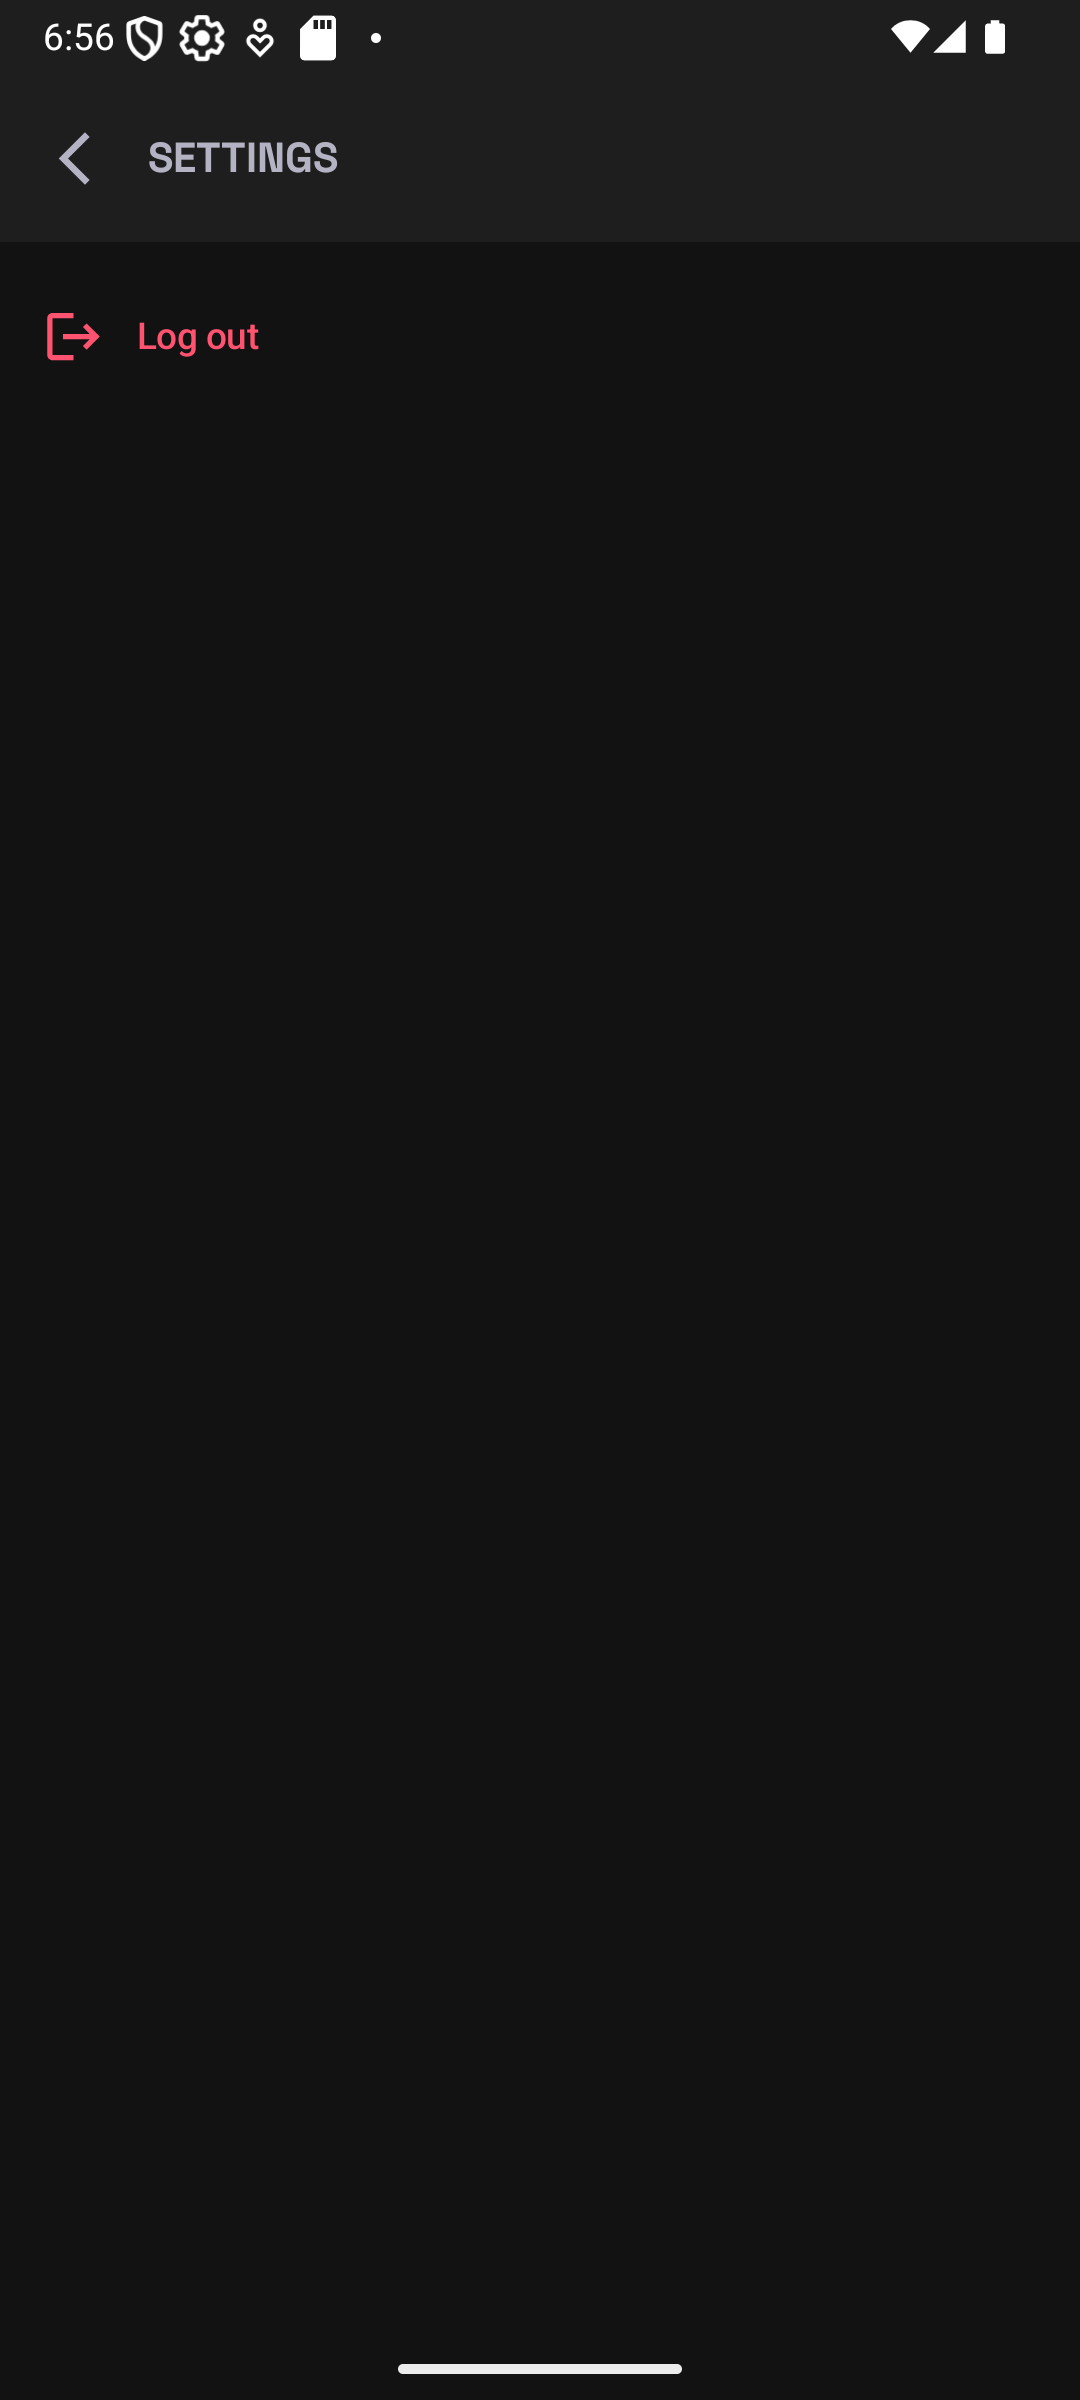
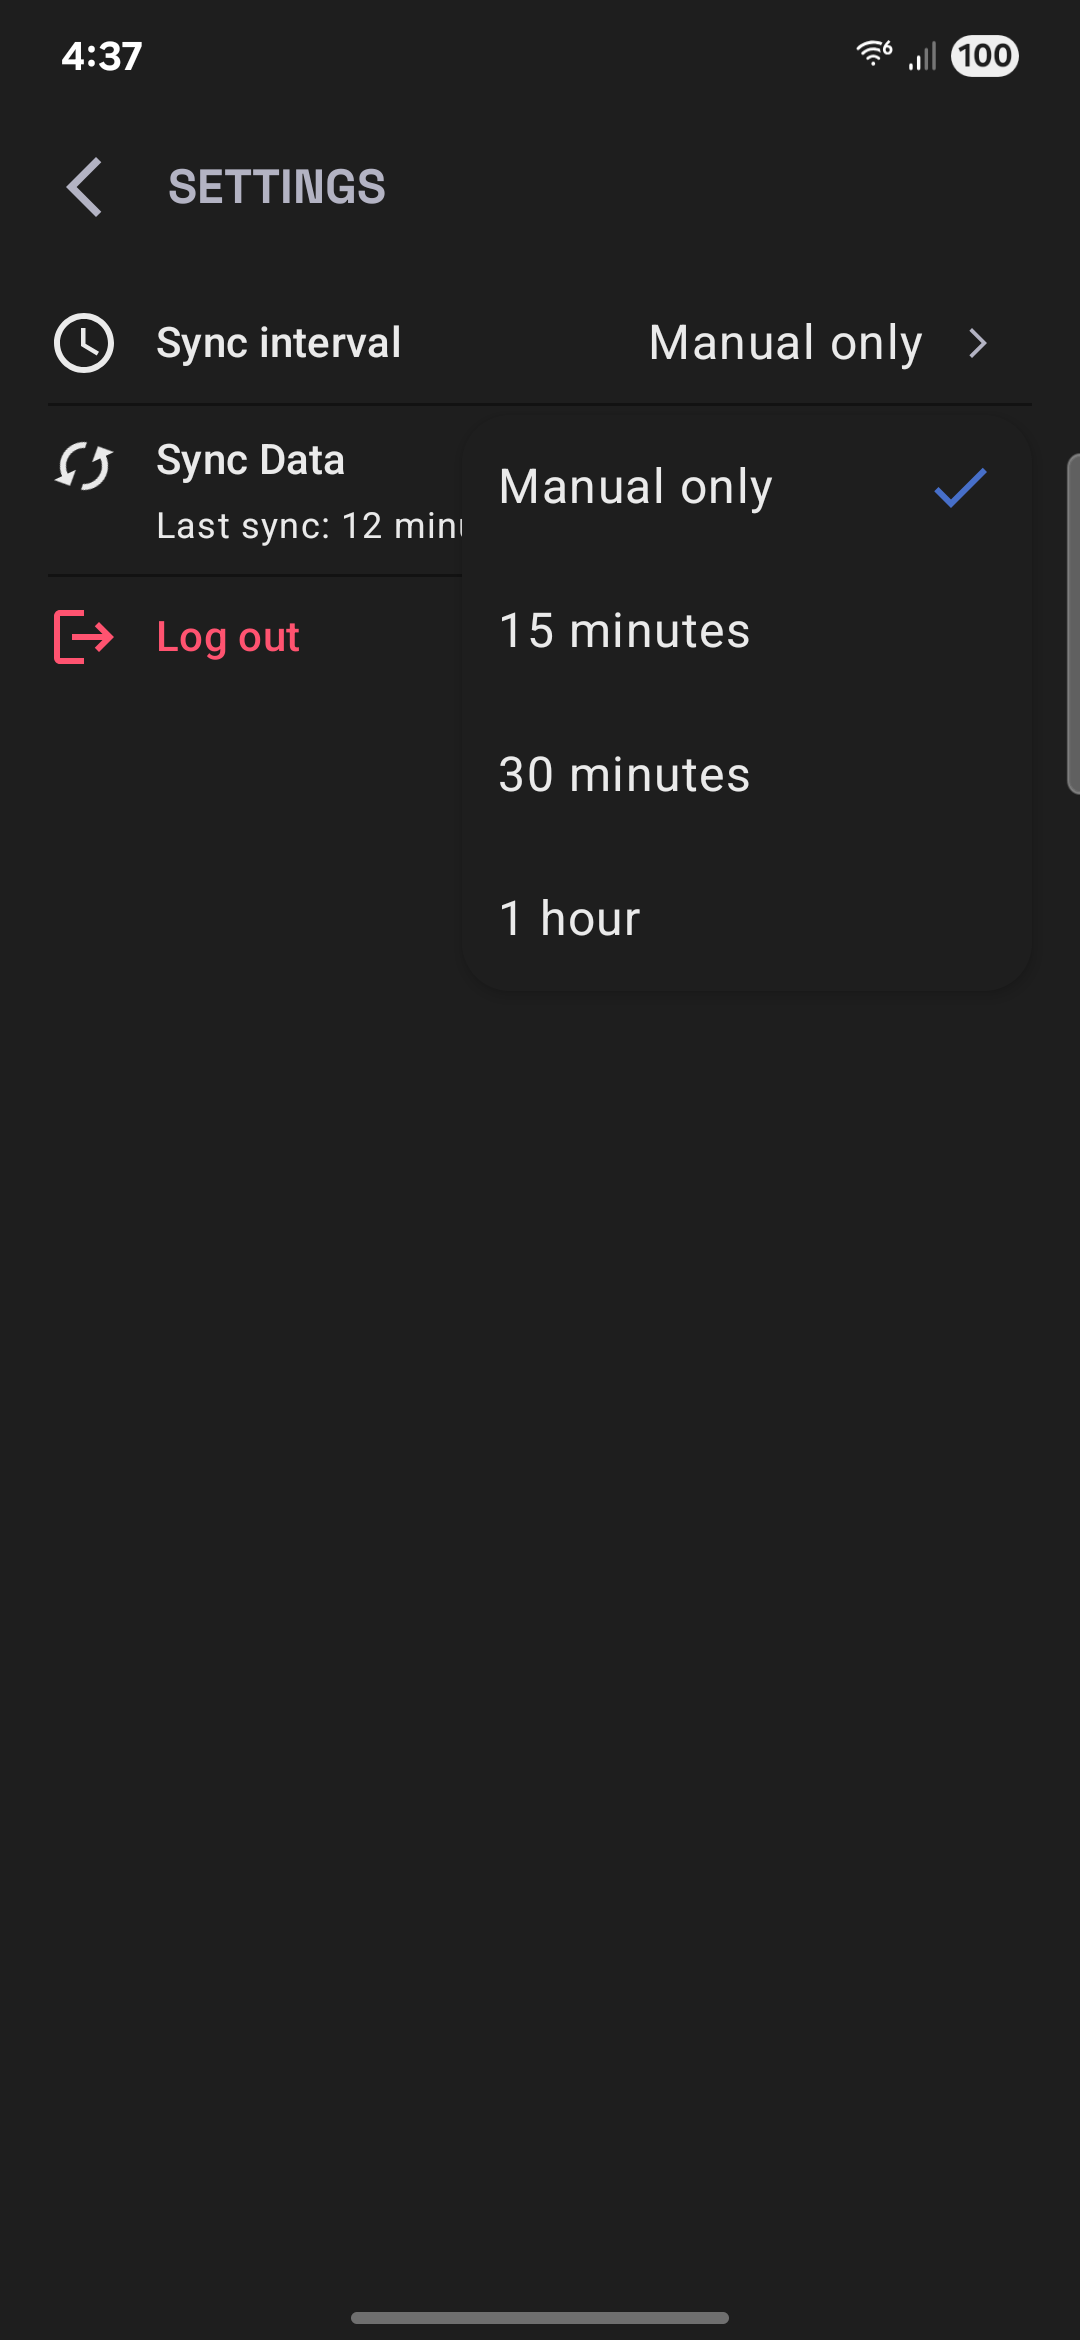
[M4-009] Readme updated

diff --git a/core/presentation/src/main/java/com/icdid/core/presentation/composables/NoteMarkDefaultScreen.kt b/core/presentation/src/main/java/com/icdid/core/presentation/composables/NoteMarkDefaultScreen.kt
@@ -135,13 +135,13 @@ fun NoteMarkDefaultScreen(
             content()
         }
 
-        val useDarkTheme = isSystemInDarkTheme()
-        SideEffect {
-            val window = (view.context as? Activity)?.window
-            if (!view.isInEditMode && window != null) {
-                WindowInsetsControllerCompat(window, window.decorView).isAppearanceLightStatusBars =
-                    if (isFromAuthGraph) false else !useDarkTheme
+            val useDarkTheme = isSystemInDarkTheme()
+            SideEffect {
+                val window = (view.context as? Activity)?.window
+                if (!view.isInEditMode && window != null) {
+                    WindowInsetsControllerCompat(window, window.decorView).isAppearanceLightStatusBars =
+                        if (isFromAuthGraph) false else !useDarkTheme
+                }
             }
-        }
     }
 }

diff --git a/dashboard/presentation/src/main/java/com/icdid/dashboard/presentation/note_detail/NoteDetailViewModel.kt b/dashboard/presentation/src/main/java/com/icdid/dashboard/presentation/note_detail/NoteDetailViewModel.kt
@@ -152,7 +152,7 @@ class NoteDetailViewModel(
                 }
 
                 NoteDetailMode.EDIT -> {
-                    if (_state.value.isNewNote && !hasUnsavedChanges()) {
+                    if (_state.value.isNewNote && !hasUnsavedChanges() || _state.value.title.isEmpty() && _state.value.content.isEmpty()) {
                         deleteNewNote()
                         _event.send(NoteDetailEvent.OnDiscardChanges)
                     } else {

diff --git a/Readme.md b/Readme.md
@@ -1,23 +1,23 @@
-# 📝 NoteMark App
+<img src="assets/screenshots/cover.png" style="width: 100%; height: auto;"/>
 
-**NoteMark** is an online notes manager app built for the Mobile Dev Campus by [Phillip Lackner](https://pl-coding.com/campus) as part of the monthly challenge. This app is made for fun and to improve skills.
+**NoteMark** is an offline-first notes manager app built for the Mobile Dev Campus by [Phillip Lackner](https://pl-coding.com/campus) as part of the monthly challenge. This app is made for fun and to improve skills.
 
 ---
 
 ## Project Status
 
-This project is divided in 4 different milestones that are launched every fortnight. 
-We are currently working in **milestone 3**
+This project was divided in 4 different milestones that were launched every fortnight. Was built in June and July 2025.
 
 ### 🚨 Latest Features ###
 
+- **General development**
+  - Offline first architecture developed. App works completely offline and can be synced with the server with different intervals
+  - Worker created to do the sync depending on the interval
 - **Settings Screen**
-  - New button for logging user out
+  - Sync interval selection (15min, 30min, 1hour and manual) item
+  - Sync Data item
 - **Detail Note Screen**
-  - Now detail note screen has 3 different modes:
-    - View: Just shows the note
-    - Read: Shows the note hiding the elements from the UI
-    - Edit: Allows to edit the note
+  - Edit mode changed to save the note after 500-100s from the last time the user typed something
 
 ---
 
@@ -31,12 +31,14 @@ We are currently working in **milestone 3**
 - ✅ Material Design 3 components and theming.
 - ✅ Data Store for user preferences (encrypted with security crypto).
 - ✅ Room for database
+- ✅ Offline first architecture
+- ✅ Workers
 
 ---
 
 ## 🎥 Demo ##
 
-https://github.com/user-attachments/assets/ca9d0867-7974-4d57-a733-7aa18c0a5080
+https://github.com/user-attachments/assets/1ad28820-9854-4023-90b0-42538931fc12
 
 ## 📱 Screenshots (portrait = dark mode || landscape = light mode) ##
 
@@ -94,5 +96,7 @@ This project is an open-source and free to use. Feel free to fork and upload you
 - Feeling more comfortable with Koin dependency injection.
 - Ktor as network client 
 - Data Store for user preferences.
+- Workers
+- Offline architecture
 
 ---
